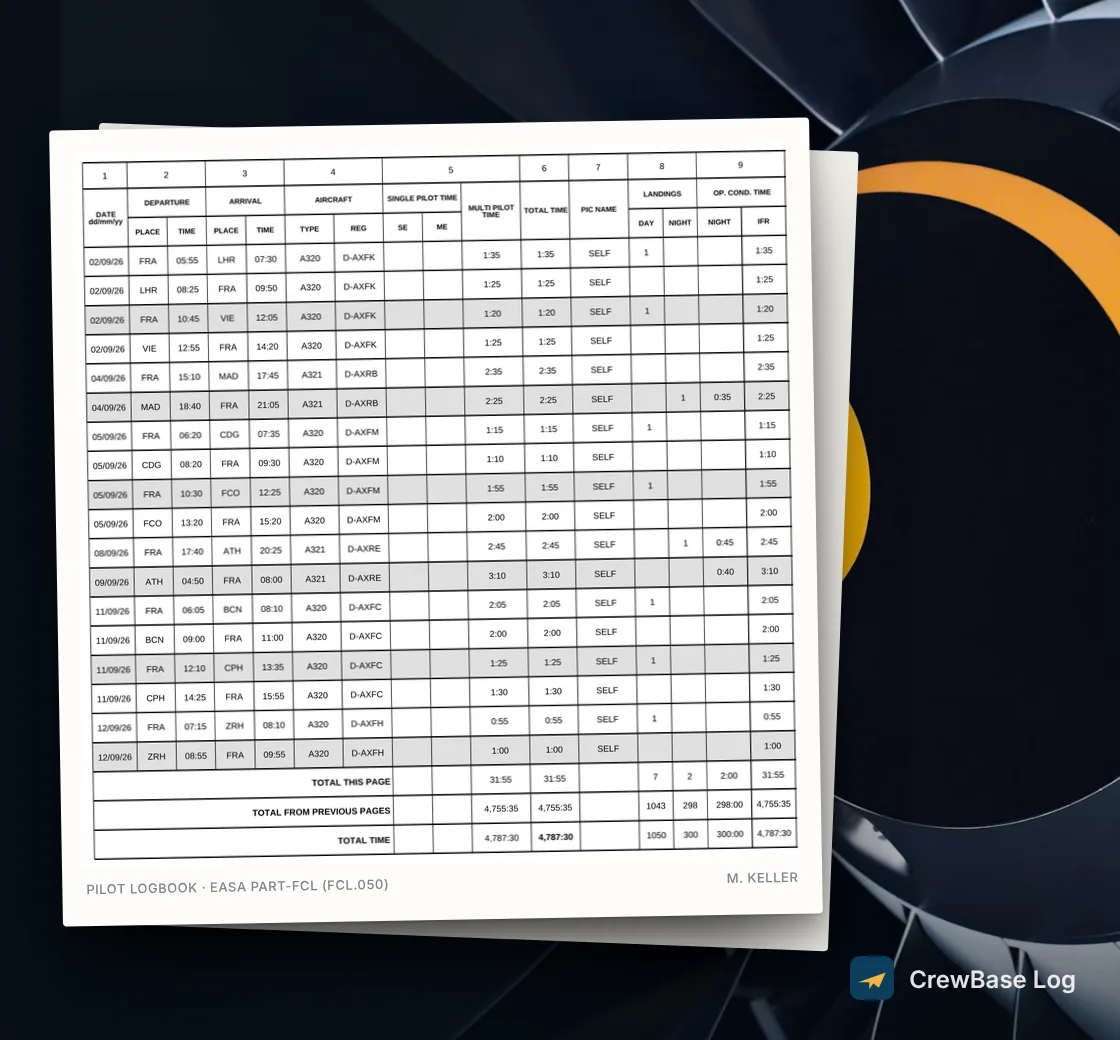
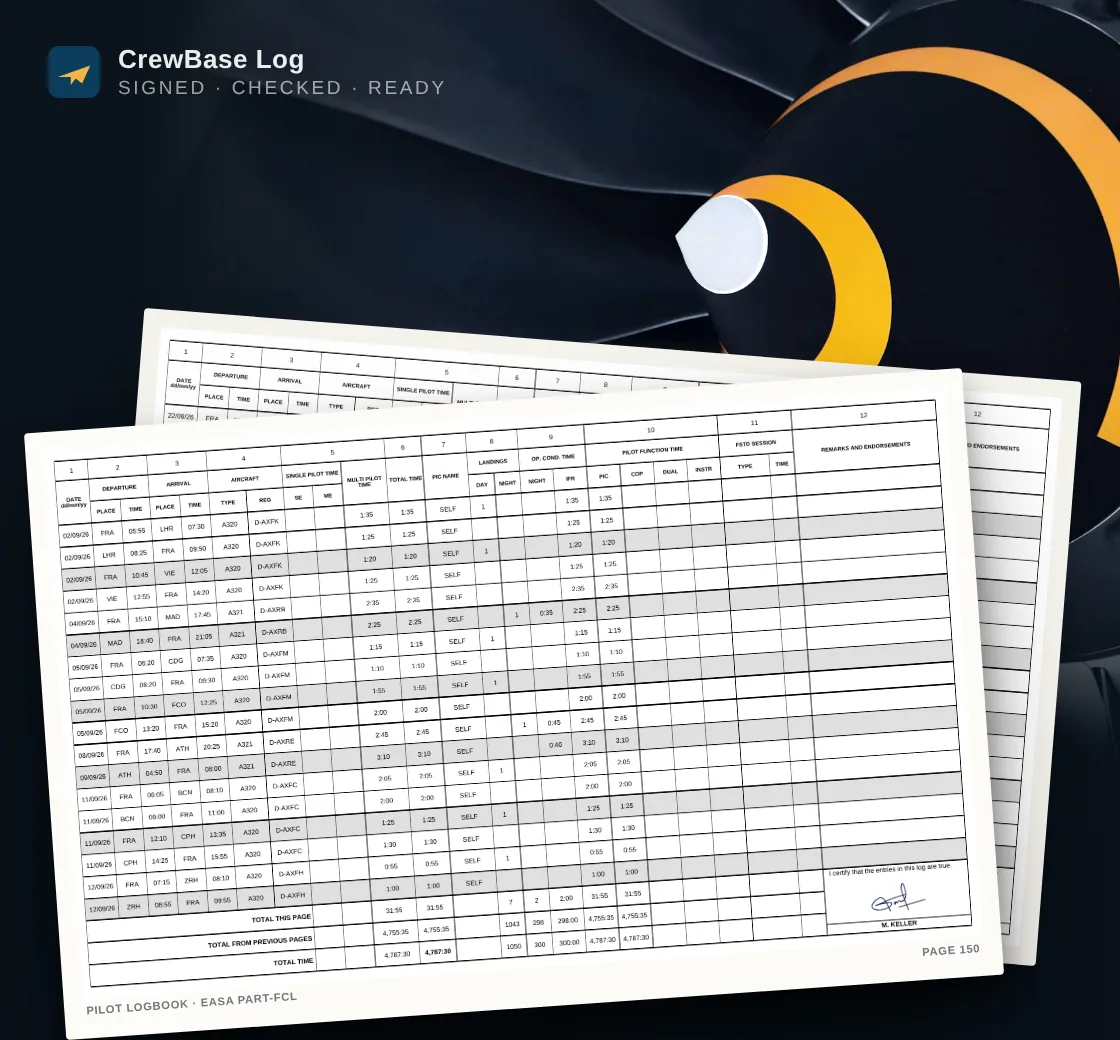
New landing hero: signed sample logbook pages over the engine fan
Claude-Session: https://claude.ai/code/session_01WEy21rXpTdn6wfRsUnq7YK

diff --git a/index.html b/index.html
@@ -101,7 +101,7 @@ dialog.kofi iframe{display:block;width:100%;height:min(690px,calc(100dvh - 150px
     </div>
     <picture class="hero-art">
       <source srcset="/img/hero-logbook.webp" type="image/webp">
-      <img src="/img/hero-logbook.jpg" width="560" height="520" alt="An EASA pilot logbook page of A320 flights from Frankfurt, with page totals, lying in front of a jet engine fan">
+      <img src="/img/hero-logbook.jpg" width="560" height="520" alt="Two signed EASA logbook pages generated by CrewBase Log, with page totals and the pilot's signature, in front of a jet engine fan">
     </picture>
   </div>
 
